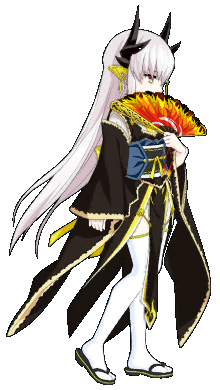
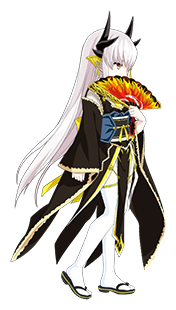
0.0.3

diff --git a/Kiyohime/src/main/java/KiyohimeMod/relics/ElixirOfRejuvenation.java b/Kiyohime/src/main/java/KiyohimeMod/relics/ElixirOfRejuvenation.java
@@ -1,6 +1,7 @@
 package KiyohimeMod.relics;
 
 import com.badlogic.gdx.graphics.Texture;
+import com.megacrit.cardcrawl.actions.common.HealAction;
 import com.megacrit.cardcrawl.actions.common.RelicAboveCreatureAction;
 import com.megacrit.cardcrawl.characters.AbstractPlayer;
 import com.megacrit.cardcrawl.dungeons.AbstractDungeon;
@@ -34,8 +35,8 @@ public class ElixirOfRejuvenation extends CustomRelic {
         AbstractPlayer p = AbstractDungeon.player;
         if ((p.currentHealth <= p.maxHealth / 2.0F) && (p.currentHealth > 0)) {
             flash();
-            AbstractDungeon.actionManager.addToTop(new RelicAboveCreatureAction(AbstractDungeon.player, this));
-            p.heal(HEAL);
+            AbstractDungeon.actionManager.addToBottom(new RelicAboveCreatureAction(AbstractDungeon.player, this));
+            AbstractDungeon.actionManager.addToBottom(new HealAction(p, p, HEAL));
         }
     }
 }

diff --git a/Kiyohime/src/main/java/KiyohimeMod/actions/ExtraAttackAction.java b/Kiyohime/src/main/java/KiyohimeMod/actions/ExtraAttackAction.java
@@ -5,6 +5,7 @@ import com.megacrit.cardcrawl.cards.AbstractCard;
 import com.megacrit.cardcrawl.characters.AbstractPlayer;
 import com.megacrit.cardcrawl.dungeons.AbstractDungeon;
 import com.megacrit.cardcrawl.monsters.AbstractMonster;
+import com.megacrit.cardcrawl.unlock.UnlockTracker;
 
 import KiyohimeMod.character.AbstractServant;
 import KiyohimeMod.character.Kiyohime;
@@ -26,7 +27,7 @@ public class ExtraAttackAction extends AbstractGameAction {
             AbstractServant servant = ((Kiyohime)AbstractDungeon.player).Servant;
             AbstractCard ex = servant.extraAttack.makeStatEquivalentCopy();
             ex.use(player, monster);
-
+            UnlockTracker.markCardAsSeen(ex.cardID);
             if(player.hasPower(NPPower.POWER_ID)){
                 player.getPower(NPPower.POWER_ID).onAfterUseCard(ex, null);
             }

diff --git a/log.md b/log.md
@@ -2,6 +2,7 @@
 * 调整遗物 阵地作成 稀有度为 罕见
 * 调整 结界 能耗为2(1)
 * 调整 天之逆月 的升级效果为：基础格挡由0增加到5
-* 下调 钢之锻炼 格挡数值为11(18)
+* 调整 钢之锻炼 格挡数值为11(18)
 * 增加遗物： 返老还童的灵药(罕见) 、 抹大拉的圣骸布(罕见)
 * 增加技能卡： 扬帆远航(普通) 、 黄金捕鲤图(稀有)
+* 微调狂清姬模型大小
